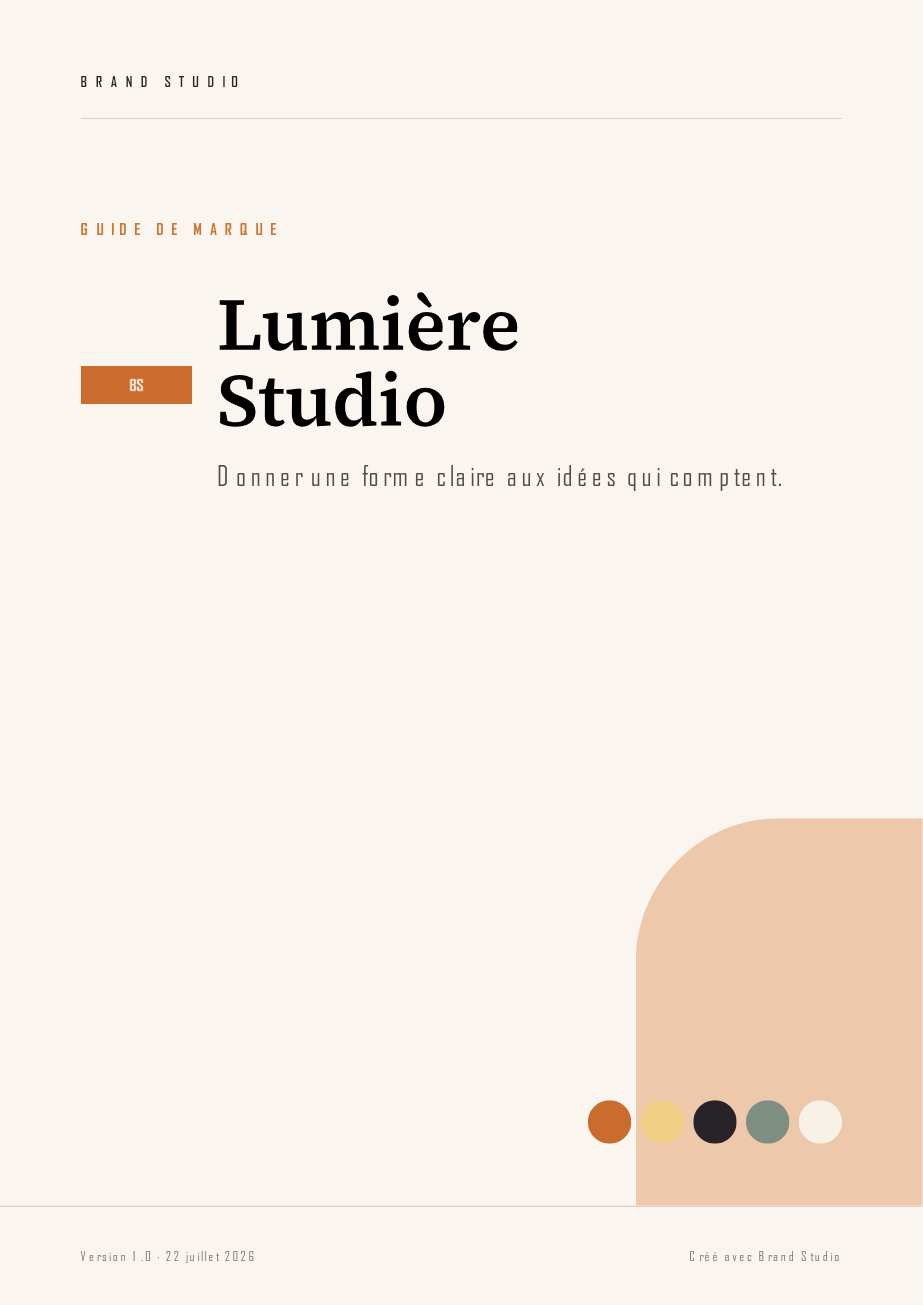
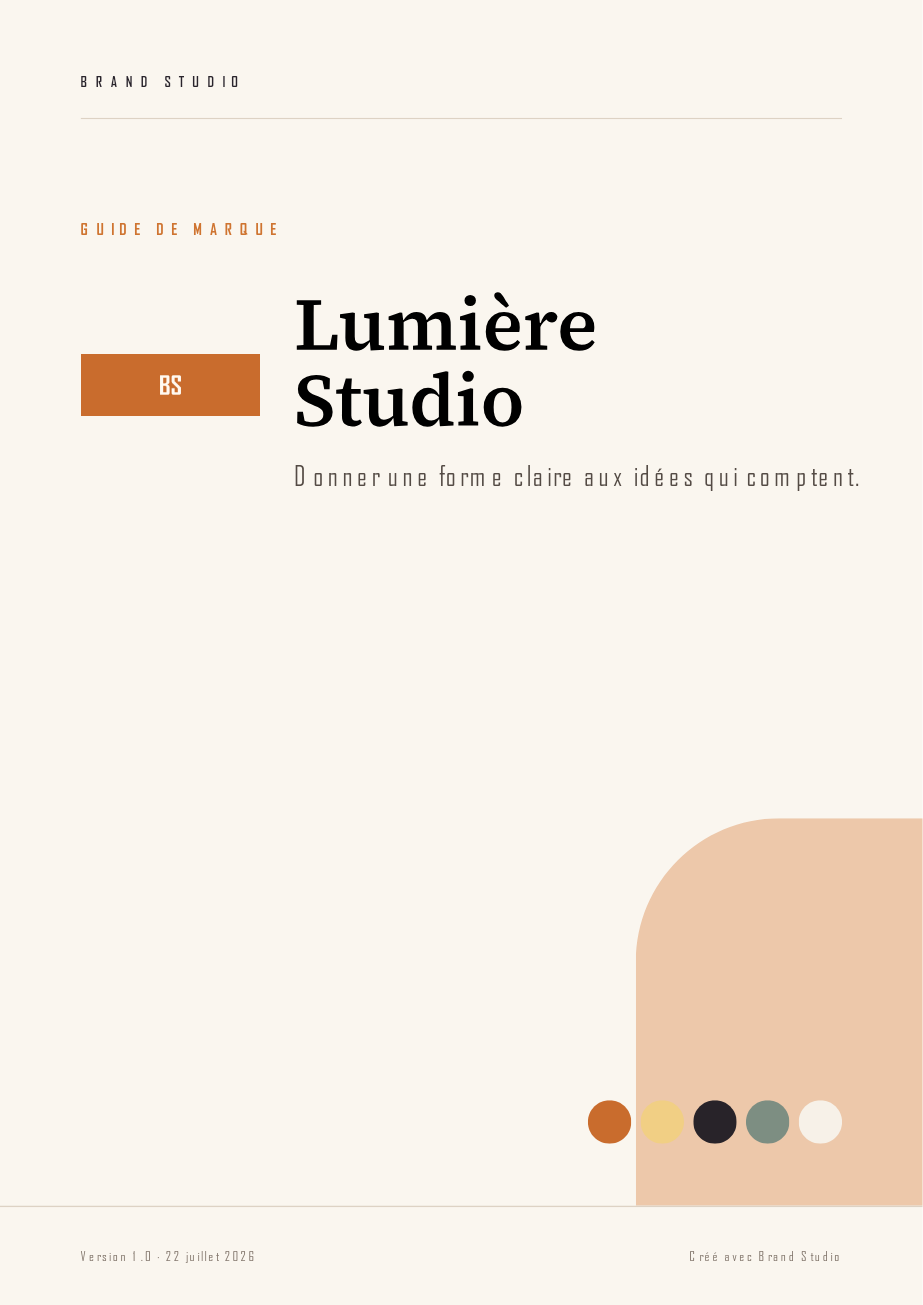
Fix checkout return URLs and preserve PDF assets

diff --git a/lib/brand-guide-pdf.tsx b/lib/brand-guide-pdf.tsx
@@ -80,8 +80,8 @@ const S = StyleSheet.create({
   quote: { paddingVertical: 34, paddingHorizontal: 30, borderTop: `1 solid ${BRAND.line}`, borderBottom: `1 solid ${BRAND.line}` },
   quoteText: { ...THEME.typography.quote, color: BRAND.ink, textAlign: "center" },
   lockup: { flexDirection: "row", alignItems: "center" },
-  lockupLogoLarge: { width: 72, height: 54, objectFit: "contain", marginRight: 16 },
-  lockupLogoMedium: { width: 44, height: 34, objectFit: "contain", marginRight: 11 },
+  lockupLogoLarge: { width: 120, height: 90, objectFit: "contain", marginRight: 22 },
+  lockupLogoMedium: { width: 72, height: 54, objectFit: "contain", marginRight: 14 },
   lockupLogoSmall: { width: 18, height: 14, objectFit: "contain", marginRight: 7 },
   lockupNameLarge: { fontFamily: "Source Serif 4", fontWeight: 600, lineHeight: 1.02, maxWidth: 300 },
   lockupNameMedium: { fontFamily: "Source Serif 4", fontSize: 25, fontWeight: 600 },
@@ -92,7 +92,7 @@ const S = StyleSheet.create({
   colorBody: { paddingTop: 12, paddingRight: 8 },
   colorName: { fontSize: 11, color: BRAND.ink, fontWeight: 700, marginBottom: 5 },
   colorMeta: { fontSize: 8.5, color: BRAND.muted, lineHeight: 1.45 },
-  moodboard: { height: 375, position: "relative", overflow: "hidden", borderRadius: 5 },
+  moodboard: { width: "100%", height: 614, position: "relative", overflow: "hidden", borderRadius: 5 },
   moodItem: { position: "absolute", overflow: "hidden", borderRadius: 4, backgroundColor: BRAND.white },
   moodImage: { width: "100%", height: "100%", objectFit: "cover" },
   moodText: { width: "100%", height: "100%", justifyContent: "center", alignItems: "center", padding: 10 },
@@ -172,13 +172,13 @@ function MoodboardItem({ item }: { item: GuideMoodboardItem }) {
   const style = { left: `${item.x}%`, top: `${item.y}%`, width: `${item.width}%`, height: `${item.height}%`, transform: `rotate(${item.rotation}deg)`, backgroundColor: item.type === "color" ? item.color : BRAND.white };
   return <View style={[S.moodItem, style]}>{item.imageUrl && (item.type === "image" || item.type === "icon") ? (
     // eslint-disable-next-line jsx-a11y/alt-text -- React PDF Image has no alt prop.
-    <Image src={item.imageUrl} style={S.moodImage}/>
+    <Image src={item.imageUrl} style={[S.moodImage, { objectPosition: `${item.cropX ?? 50}% ${item.cropY ?? 50}%` }]}/>
   ) : <View style={S.moodText}><Text style={[S.moodLabel, { color: item.type === "color" ? BRAND.white : item.textColor || BRAND.ink, fontSize: Math.min(item.fontSize || 10, 22) }]}>{item.label}</Text></View>}</View>;
 }
 
 function MoodboardPage({ data, number }: { data: BrandGuideData; number: string }) {
   const composition = composeMoodboard(data.moodboard);
-  return <Page size="A4" orientation="landscape" style={S.page}><PageChrome data={data} chapter="Moodboard"/><ChapterHeading number={number} title="Planche d’inspiration"/><View style={[S.moodboard, { backgroundColor: data.moodboardBackground }]}>{composition.map((item) => <MoodboardItem key={item.id} item={item}/>)}</View></Page>;
+  return <Page size="A4" style={S.page}><PageChrome data={data} chapter="Moodboard"/><ChapterHeading number={number} title="Planche d’inspiration"/><View style={[S.moodboard, { backgroundColor: data.moodboardBackground }]}>{composition.map((item) => <MoodboardItem key={item.id} item={item}/>)}</View></Page>;
 }
 
 function BrandGuideDocument({ data }: { data: BrandGuideData }) {

diff --git a/app/api/stripe/create-checkout-session/route.ts b/app/api/stripe/create-checkout-session/route.ts
@@ -2,17 +2,17 @@ import { NextResponse } from "next/server";
 import { getCurrentAccount } from "@/lib/session";
 import { findStripeCustomerId, upsertSubscription } from "@/lib/subscriptions";
 import { getStripe, getStripeCheckoutMode } from "@/lib/stripe";
+import { createStripeReturnUrl } from "@/lib/stripe-return-url";
 
 export const runtime = "nodejs";
 
-export async function POST() {
+export async function POST(request: Request) {
   try {
     const account = await getCurrentAccount();
 
     const priceId = process.env.STRIPE_PRICE_ID;
-    const siteUrl = process.env.NEXT_PUBLIC_SITE_URL;
 
-    if (!priceId || !siteUrl) {
+    if (!priceId) {
       return NextResponse.json(
         { error: "Stripe checkout is not configured" },
         { status: 500 },
@@ -21,6 +21,11 @@ export async function POST() {
 
     const stripe = getStripe();
     const mode = getStripeCheckoutMode();
+    const successUrl = createStripeReturnUrl(request.url, "/?payment=success");
+    const cancelUrl = createStripeReturnUrl(
+      request.url,
+      "/pricing?payment=cancelled",
+    );
     let customerId = account ? await findStripeCustomerId(account.id) : null;
 
     if (account && !customerId) {
@@ -48,8 +53,8 @@ export async function POST() {
       customer: customerId ?? undefined,
       customer_creation: !account && mode === "payment" ? "always" : undefined,
       line_items: [{ price: priceId, quantity: 1 }],
-      success_url: `${siteUrl}/?payment=success`,
-      cancel_url: `${siteUrl}/pricing?payment=cancelled`,
+      success_url: successUrl,
+      cancel_url: cancelUrl,
       metadata: {
         user_id: account ? String(account.id) : "",
         product: "brand_studio",
@@ -73,6 +78,13 @@ export async function POST() {
             }
           : undefined,
     });
+
+    if (!session.url) {
+      return NextResponse.json(
+        { error: "Stripe n'a pas retourné d'URL de paiement" },
+        { status: 502 },
+      );
+    }
 
     return NextResponse.json({ url: session.url });
   } catch (error) {

diff --git a/lib/brand-guide-editorial-layout.ts b/lib/brand-guide-editorial-layout.ts
@@ -48,19 +48,6 @@ export function getAccessibleTextColor(hex: string) {
   return luminance > 0.42 ? "#29242C" : "#FFFFFF";
 }
 
-type MoodboardFrame = Pick<GuideMoodboardItem, "x" | "y" | "width" | "height" | "rotation">;
-
-const MOODBOARD_FRAMES: Record<number, MoodboardFrame[]> = {
-  1: [{ x: 0, y: 0, width: 100, height: 100, rotation: 0 }],
-  2: [{ x: 0, y: 0, width: 63, height: 100, rotation: 0 }, { x: 65, y: 0, width: 35, height: 100, rotation: 0 }],
-  3: [{ x: 0, y: 0, width: 58, height: 100, rotation: 0 }, { x: 60, y: 0, width: 40, height: 48, rotation: 0 }, { x: 60, y: 51, width: 40, height: 49, rotation: 0 }],
-  4: [{ x: 0, y: 0, width: 60, height: 62, rotation: 0 }, { x: 62, y: 0, width: 38, height: 62, rotation: 0 }, { x: 0, y: 65, width: 38, height: 35, rotation: 0 }, { x: 40, y: 65, width: 60, height: 35, rotation: 0 }],
-  5: [{ x: 0, y: 0, width: 50, height: 65, rotation: 0 }, { x: 52, y: 0, width: 48, height: 38, rotation: 0 }, { x: 52, y: 41, width: 23, height: 59, rotation: 0 }, { x: 77, y: 41, width: 23, height: 28, rotation: 0 }, { x: 77, y: 72, width: 23, height: 28, rotation: 0 }],
-  6: [{ x: 0, y: 0, width: 48, height: 62, rotation: 0 }, { x: 50, y: 0, width: 25, height: 36, rotation: 0 }, { x: 77, y: 0, width: 23, height: 36, rotation: 0 }, { x: 50, y: 39, width: 50, height: 61, rotation: 0 }, { x: 0, y: 65, width: 23, height: 35, rotation: 0 }, { x: 25, y: 65, width: 23, height: 35, rotation: 0 }],
-};
-
 export function composeMoodboard(items: GuideMoodboardItem[]) {
-  const selected = items.slice(0, 6);
-  const frames = MOODBOARD_FRAMES[selected.length] ?? [];
-  return selected.map((item, index) => ({ ...item, ...frames[index], zIndex: index + 1 }));
+  return items.slice().sort((left, right) => left.zIndex - right.zIndex);
 }

diff --git a/app/api/stripe/create-portal-session/route.ts b/app/api/stripe/create-portal-session/route.ts
@@ -2,24 +2,16 @@ import { NextResponse } from "next/server";
 import { getCurrentAccount } from "@/lib/session";
 import { getSubscriptionAccessStatus } from "@/lib/subscriptions";
 import { getStripe } from "@/lib/stripe";
+import { createStripeReturnUrl } from "@/lib/stripe-return-url";
 
 export const runtime = "nodejs";
 
-export async function POST() {
+export async function POST(request: Request) {
   try {
     const account = await getCurrentAccount();
 
     if (!account) {
       return NextResponse.json({ error: "Unauthorized" }, { status: 401 });
-    }
-
-    const siteUrl = process.env.NEXT_PUBLIC_SITE_URL;
-
-    if (!siteUrl) {
-      return NextResponse.json(
-        { error: "NEXT_PUBLIC_SITE_URL is not configured" },
-        { status: 500 },
-      );
     }
 
     const subscription = await getSubscriptionAccessStatus(account.id);
@@ -34,7 +26,7 @@ export async function POST() {
     const stripe = getStripe();
     const session = await stripe.billingPortal.sessions.create({
       customer: subscription.stripeCustomerId,
-      return_url: `${siteUrl}/dashboard`,
+      return_url: createStripeReturnUrl(request.url, "/dashboard"),
     });
 
     return NextResponse.json({ url: session.url });

diff --git a/tests/brand-guide-pdf.test.tsx b/tests/brand-guide-pdf.test.tsx
@@ -74,11 +74,15 @@ describe("editorial brand guide PDF", () => {
     expect(data.logoUrl).toBeUndefined();
   });
 
-  it("recomposes moodboard assets without editor coordinates or dead zones", () => {
+  it("preserves the original moodboard composition and stacking order", () => {
     const source = makeGuide().visualUniverse.moodboard[0];
-    const items = composeMoodboard([source, { ...source, id: "second", x: 90, y: 90 }]);
-    expect(items[0]).toMatchObject({ x: 0, y: 0, width: 63, height: 100 });
-    expect(items[1]).toMatchObject({ x: 65, y: 0, width: 35, height: 100 });
+    const items = composeMoodboard([
+      { ...source, id: "front", x: 90, y: 80, width: 8, height: 12, rotation: 4, zIndex: 9 },
+      { ...source, id: "back", x: 6, y: 8, width: 34, height: 30, rotation: -3, zIndex: 2 },
+    ]);
+    expect(items.map((item) => item.id)).toEqual(["back", "front"]);
+    expect(items[0]).toMatchObject({ x: 6, y: 8, width: 34, height: 30, rotation: -3, zIndex: 2 });
+    expect(items[1]).toMatchObject({ x: 90, y: 80, width: 8, height: 12, rotation: 4, zIndex: 9 });
   });
 
   it("adapts the cover title to short, medium and long brand names", () => {

diff --git a/tests/stripe-return-url.test.ts b/tests/stripe-return-url.test.ts
@@ -1,0 +1,33 @@
+import { describe, expect, it } from "vitest";
+import { createStripeReturnUrl } from "../lib/stripe-return-url";
+
+describe("Stripe return URLs", () => {
+  it("uses the public request origin for checkout redirects", () => {
+    const requestUrl =
+      "https://brand-studio-new.vercel.app/api/stripe/create-checkout-session";
+
+    expect(createStripeReturnUrl(requestUrl, "/?payment=success")).toBe(
+      "https://brand-studio-new.vercel.app/?payment=success",
+    );
+    expect(
+      createStripeReturnUrl(requestUrl, "/pricing?payment=cancelled"),
+    ).toBe(
+      "https://brand-studio-new.vercel.app/pricing?payment=cancelled",
+    );
+  });
+
+  it("supports local checkout without a configured site URL", () => {
+    expect(
+      createStripeReturnUrl(
+        "http://localhost:3000/api/stripe/create-checkout-session",
+        "/dashboard",
+      ),
+    ).toBe("http://localhost:3000/dashboard");
+  });
+
+  it("rejects non-web request URLs", () => {
+    expect(() =>
+      createStripeReturnUrl("file:///tmp/checkout", "/dashboard"),
+    ).toThrow("HTTP or HTTPS");
+  });
+});

diff --git a/app/ui/checkout-button.tsx b/app/ui/checkout-button.tsx
@@ -20,7 +20,11 @@ export default function CheckoutButton() {
         throw new Error(data.error ?? "Impossible d'ouvrir le paiement");
       }
 
-      window.location.href = data.url;
+      const checkoutUrl = new URL(data.url);
+      if (checkoutUrl.protocol !== "https:") {
+        throw new Error("L'adresse de paiement retournée est invalide");
+      }
+      window.location.assign(checkoutUrl.toString());
     } catch (checkoutError) {
       setError(
         checkoutError instanceof Error

diff --git a/lib/stripe-return-url.ts b/lib/stripe-return-url.ts
@@ -1,0 +1,9 @@
+export function createStripeReturnUrl(requestUrl: string, path: string) {
+  const request = new URL(requestUrl);
+
+  if (request.protocol !== "http:" && request.protocol !== "https:") {
+    throw new Error("Checkout request URL must use HTTP or HTTPS");
+  }
+
+  return new URL(path, request.origin).toString();
+}
